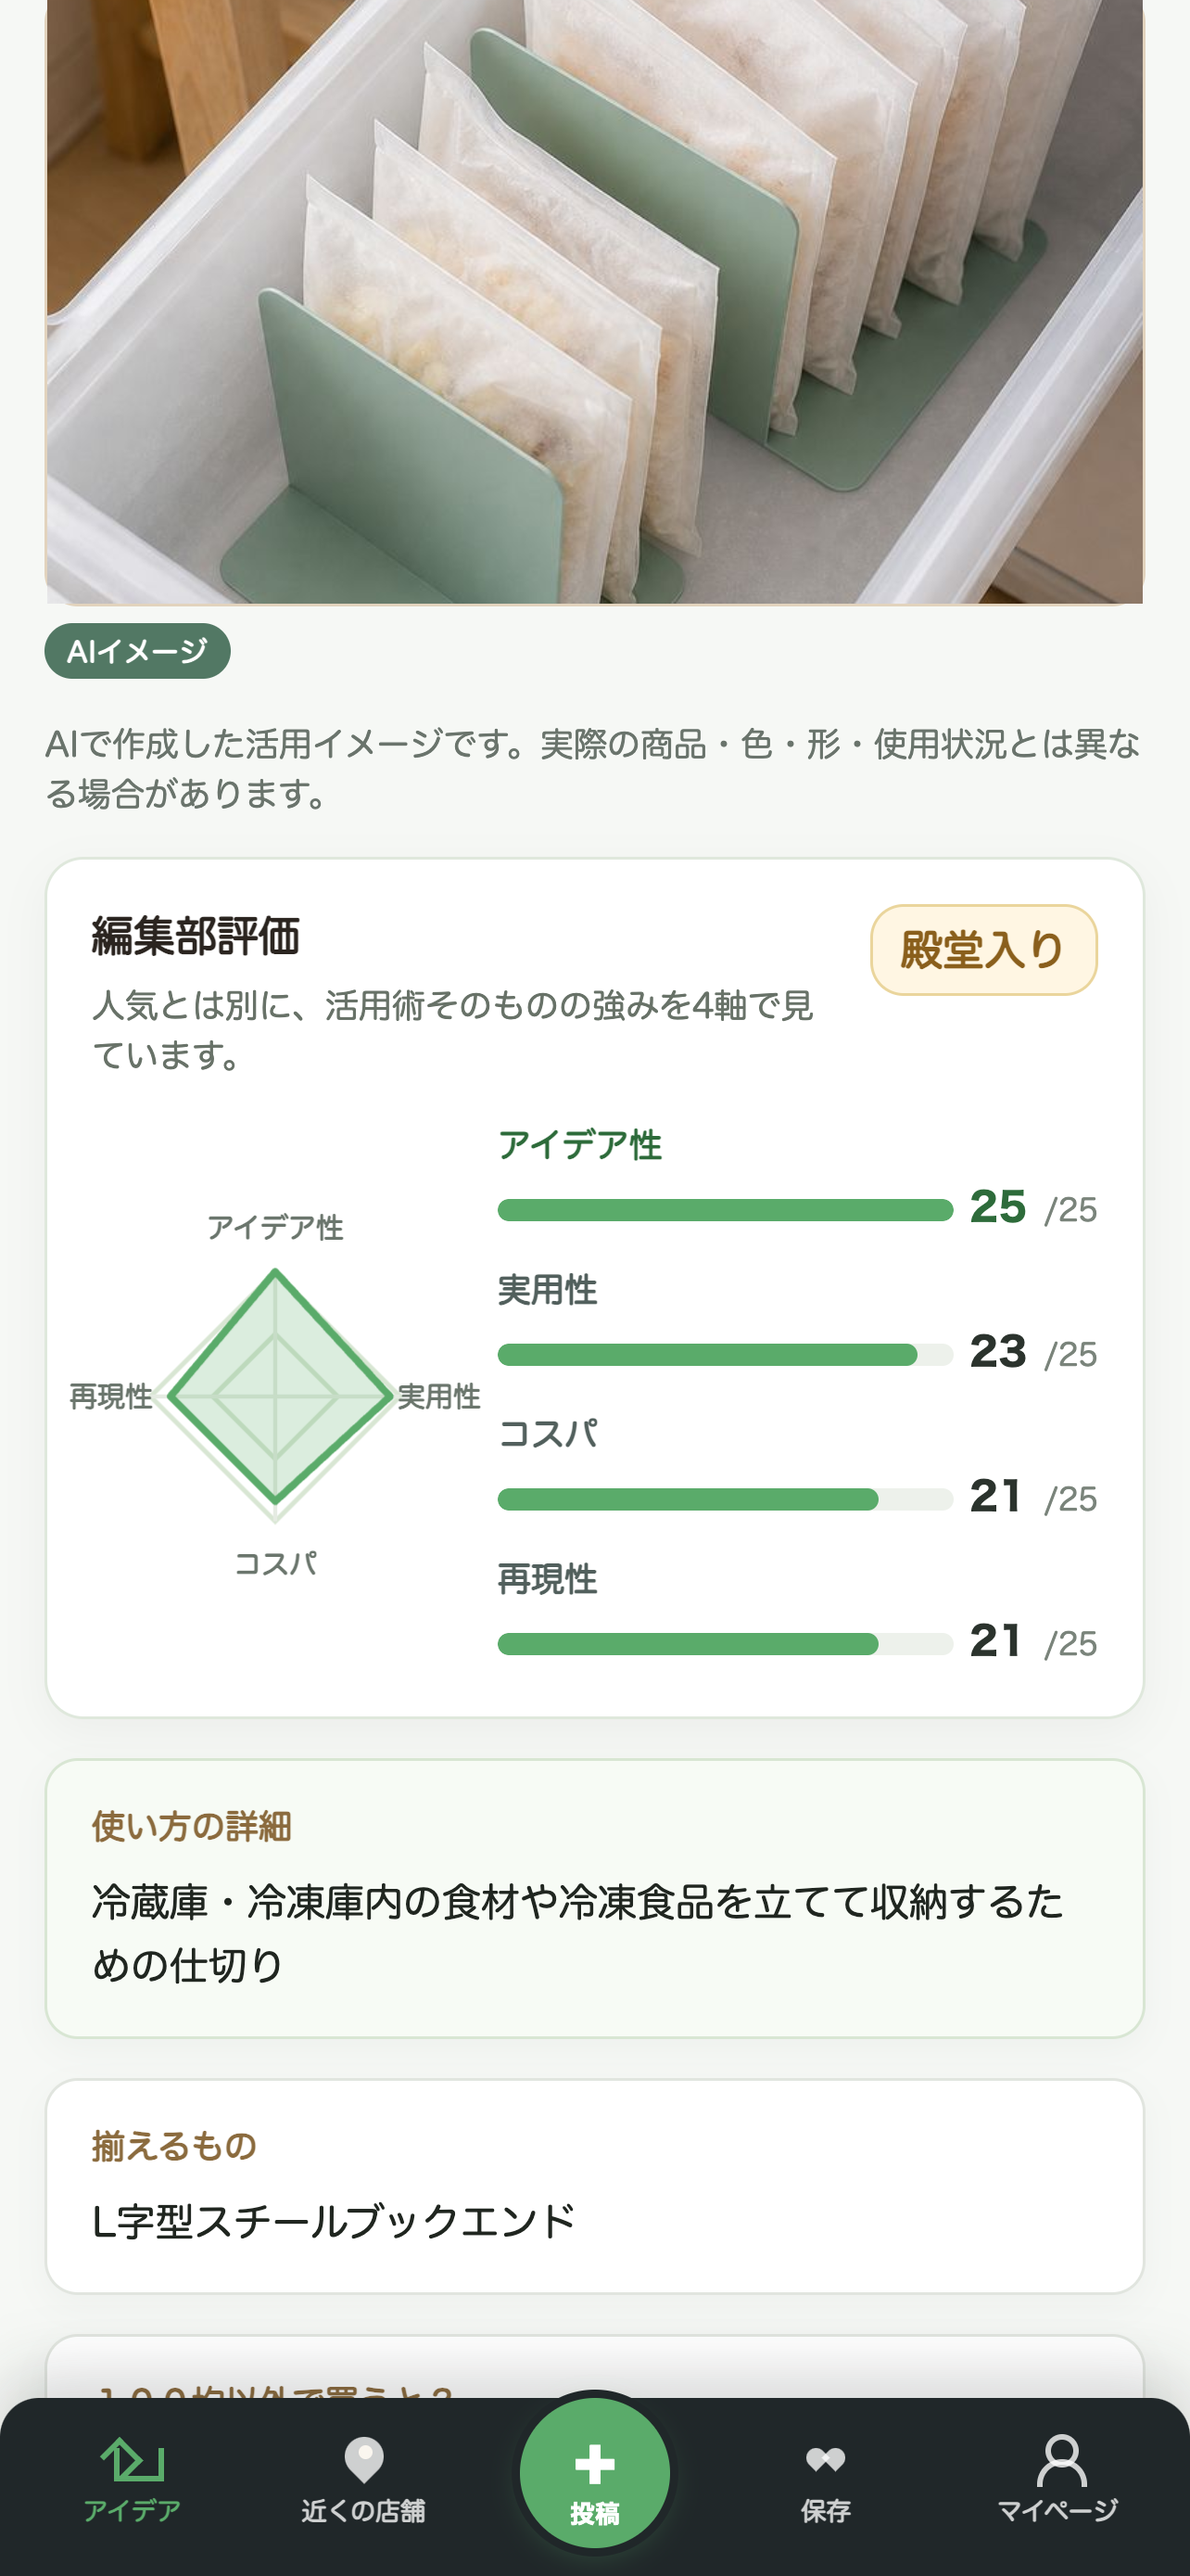
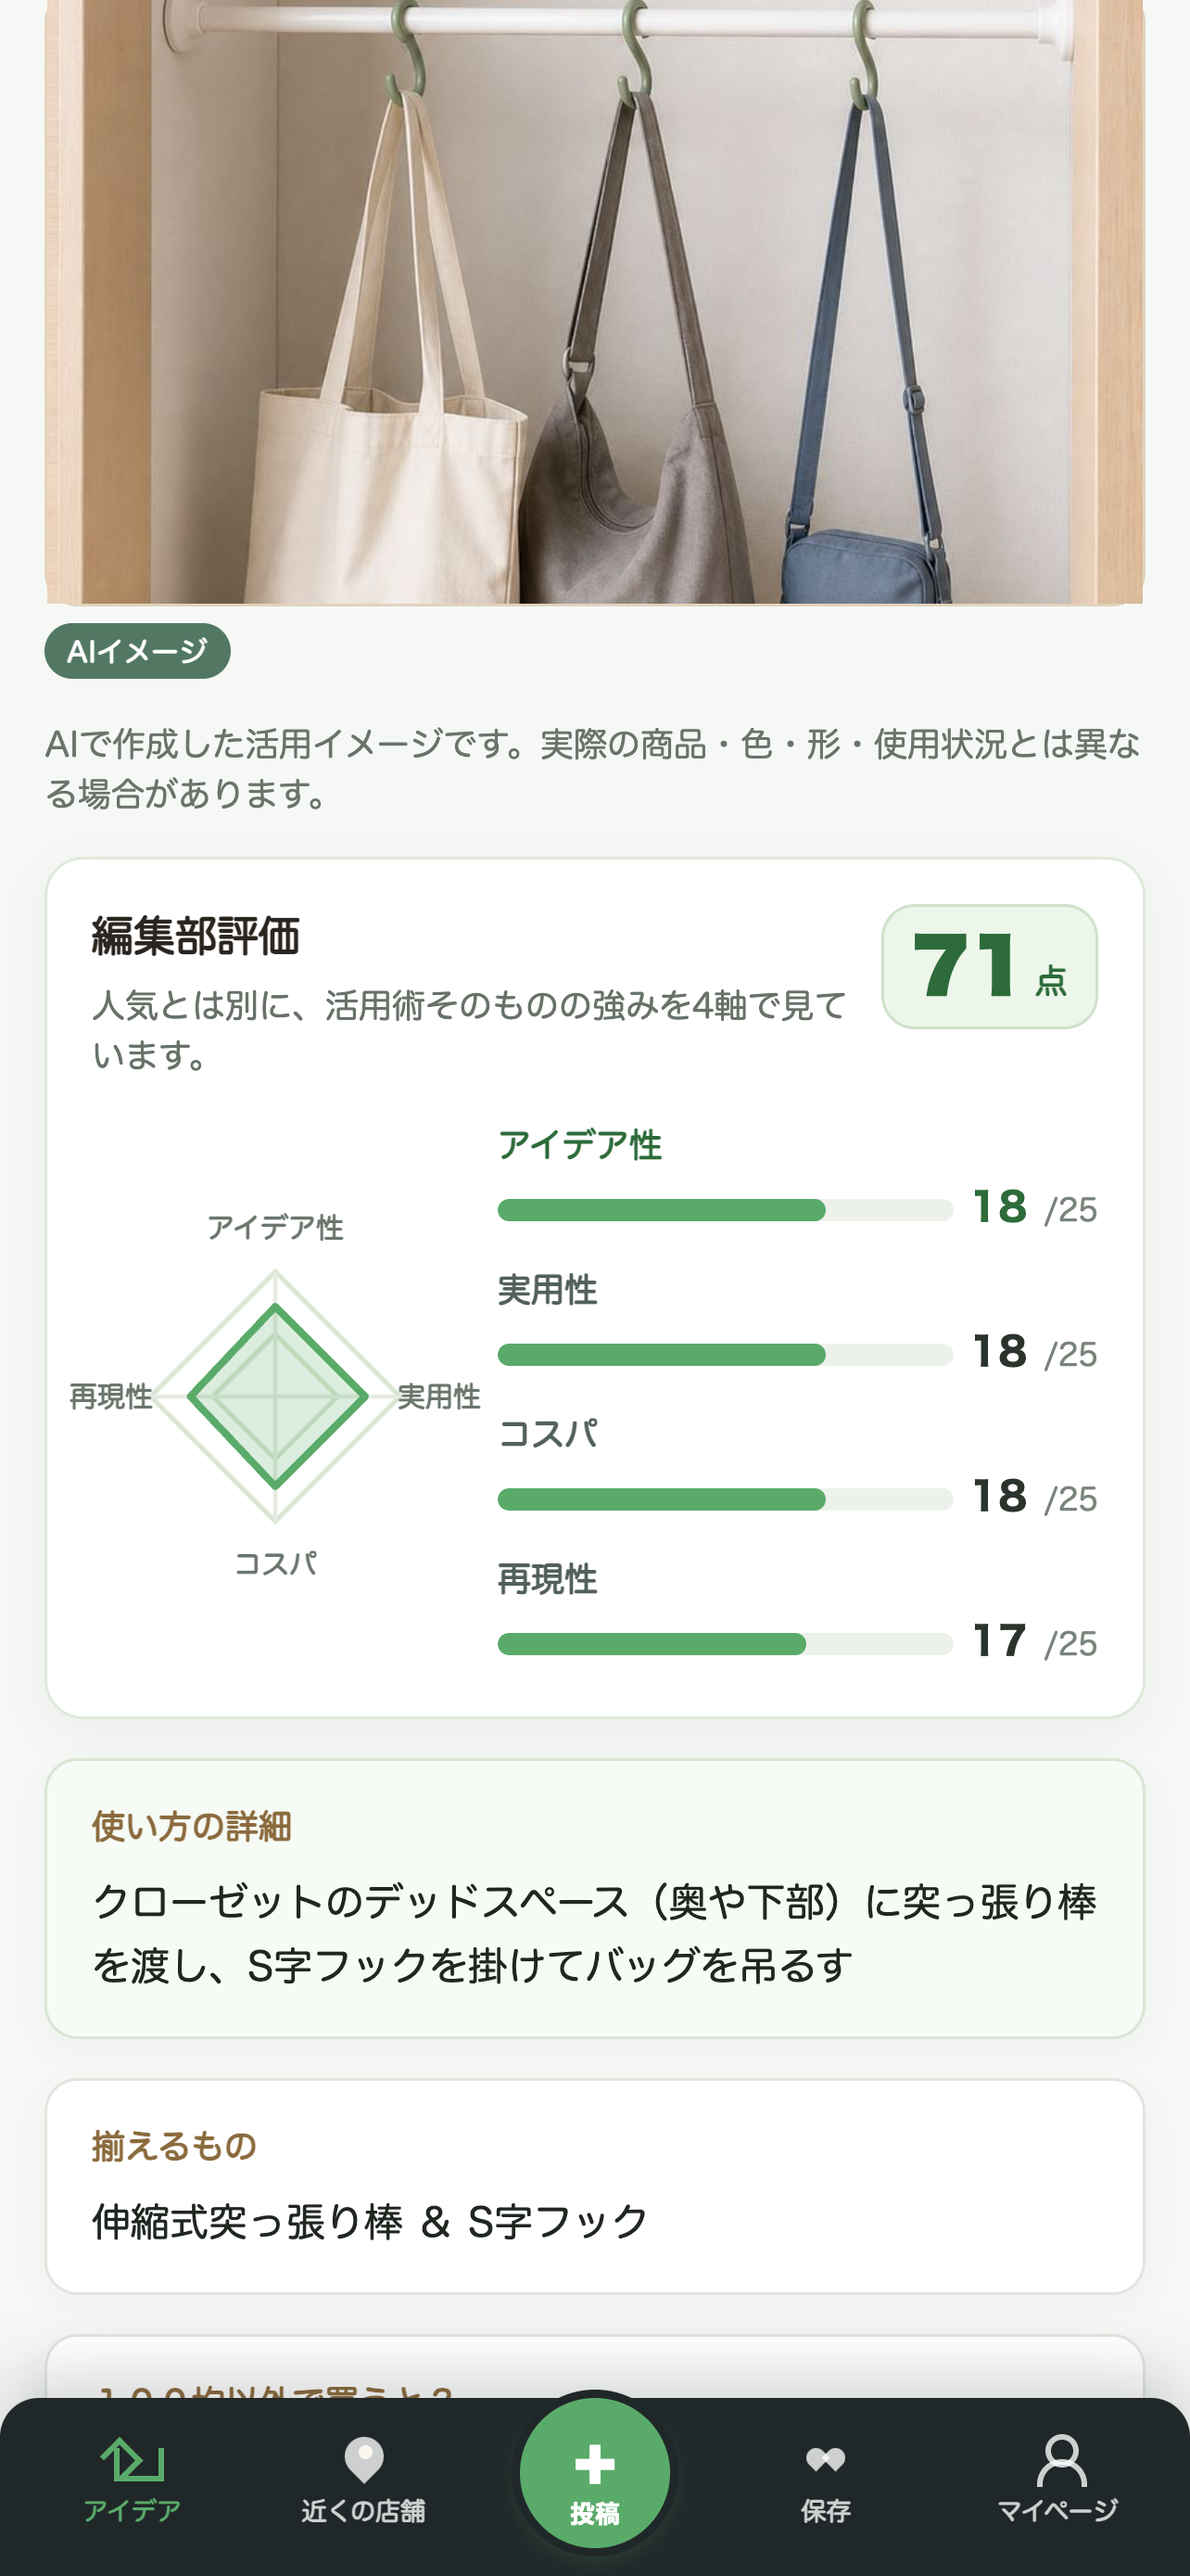
Vary the feature phones, drop the hero to an A-rank idea, label the ranks
Four identical front-on phones read as one screenshot repeated, so cards two
through four now sit at different angles and sizes.

The hero's detail phone was a 殿堂入り idea, which is Pro-only — a screen the
LP invites people toward but free users cannot open. Swapped to an A-rank one
(71 points, tension rod and S hooks for closet bags), which is free to view and
carries a cleaner photo. The capture script now names it, so the choice is not
re-litigated at the next capture.

Added the rank note under the pills, sized off the real data rather than an
assumption: 殿堂入り and S are entirely Pro (28 and 67), A is split (57 Pro,
113 free), B is entirely free (237).

diff --git a/css/hyakkin-ideas.css b/css/hyakkin-ideas.css
@@ -403,6 +403,21 @@
     inset 0 0 0 1px rgba(255, 255, 255, 0.1);
 }
 
+/* 4枚とも真正面だと並びが単調になる。角度と寄せを変えて見せ方を散らす */
+.hyakkin-page .hk-feature-card:nth-child(2) .hk-mini-phone {
+  transform: rotate(-7deg) translateX(-7%);
+}
+
+.hyakkin-page .hk-feature-card:nth-child(3) .hk-mini-phone {
+  transform: rotate(6deg) translateX(8%);
+}
+
+.hyakkin-page .hk-feature-card:nth-child(4) .hk-mini-phone {
+  width: 62%;
+  margin-top: 15%;
+  transform: rotate(-3deg);
+}
+
 .hyakkin-page .hk-mini-phone::before {
   content: "";
   position: absolute;
@@ -477,14 +492,32 @@
   flex: 0 0 auto;
 }
 
+/* ランク表示は本文の右に離れて置くと目に入りにくい。注釈と縦に組んで一塊にする */
+.hyakkin-page .hk-rank-aside {
+  flex: 0 1 auto;
+  display: flex;
+  flex-direction: column;
+  align-items: flex-end;
+  gap: 8px;
+  min-width: 0;
+}
+
+.hyakkin-page .hk-rank-note {
+  margin: 0;
+  font-size: 0.75rem;
+  line-height: 1.6;
+  color: var(--hk-muted);
+  text-align: right;
+}
+
 .hyakkin-page .hk-pill {
   display: inline-flex;
   align-items: center;
   justify-content: center;
-  min-height: 26px;
-  padding: 0 10px;
+  min-height: 32px;
+  padding: 0 14px;
   border-radius: 999px;
-  font-size: 0.75rem;
+  font-size: 0.8125rem;
   font-weight: 700;
   background: var(--hk-white);
   border: 1px solid var(--hk-line);

diff --git a/apps/100kin-ideas/index.html b/apps/100kin-ideas/index.html
@@ -160,11 +160,14 @@
               <h3 class="hk-rank-title">たくさんの中から、いいアイデアを見つけやすく。</h3>
               <p class="hk-rank-text">活用術はランクや人気順・新着順などから探せます。<br>自分に合った使い方を見つけるための目安として活用できます。</p>
             </div>
-            <div class="hk-rank-pills">
-              <span class="hk-pill hk-pill--hall">殿堂入り</span>
-              <span class="hk-pill hk-pill--s">S</span>
-              <span class="hk-pill hk-pill--a">A</span>
-              <span class="hk-pill hk-pill--b">B</span>
+            <div class="hk-rank-aside">
+              <div class="hk-rank-pills">
+                <span class="hk-pill hk-pill--hall">殿堂入り</span>
+                <span class="hk-pill hk-pill--s">S</span>
+                <span class="hk-pill hk-pill--a">A</span>
+                <span class="hk-pill hk-pill--b">B</span>
+              </div>
+              <p class="hk-rank-note">殿堂入り・SはProプラン限定です。Aは一部がPro、Bは無料で閲覧できます。</p>
             </div>
           </aside>
 
